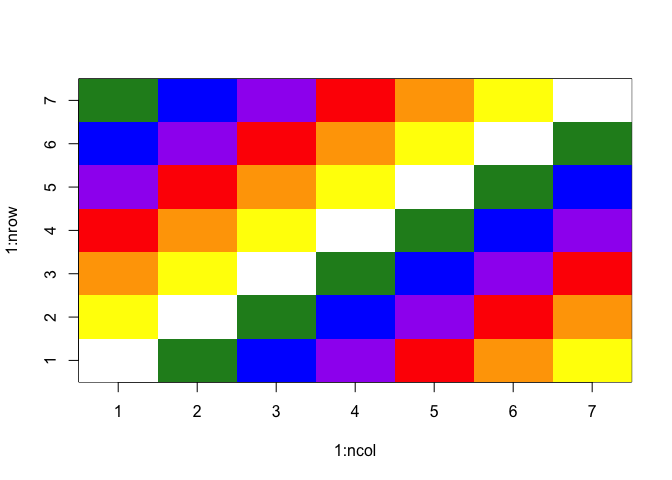
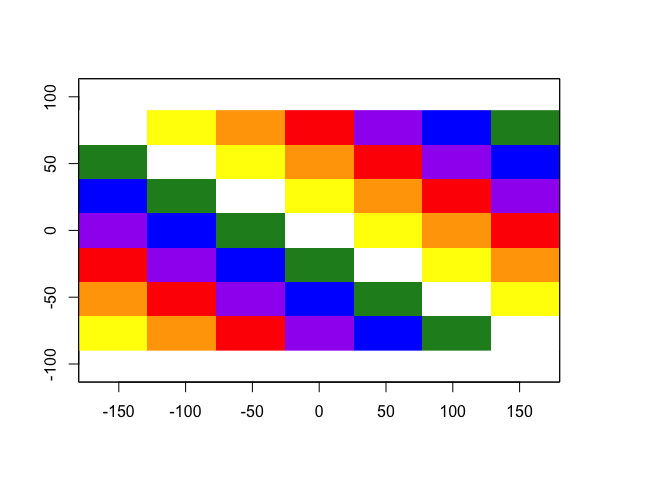
con rasters resolvemos el orden del plot y las dimensiones

diff --git a/README.md b/README.md
@@ -34,12 +34,26 @@ whipala()
 
 <img src="man/figures/README-example-1.png" width="100%" />
 
-    #> NULL
+    #> class      : RasterLayer 
+    #> dimensions : 7, 7, 49  (nrow, ncol, ncell)
+    #> resolution : 51.42857, 25.71429  (x, y)
+    #> extent     : -180, 180, -90, 90  (xmin, xmax, ymin, ymax)
+    #> crs        : +proj=longlat +datum=WGS84 +no_defs 
+    #> source     : memory
+    #> names      : layer 
+    #> values     : 1, 7  (min, max)
     whipala(ncol = 13)
 
 <img src="man/figures/README-example-2.png" width="100%" />
 
-    #> NULL
+    #> class      : RasterLayer 
+    #> dimensions : 13, 13, 169  (nrow, ncol, ncell)
+    #> resolution : 27.69231, 13.84615  (x, y)
+    #> extent     : -180, 180, -90, 90  (xmin, xmax, ymin, ymax)
+    #> crs        : +proj=longlat +datum=WGS84 +no_defs 
+    #> source     : memory
+    #> names      : layer 
+    #> values     : 1, 7  (min, max)
 
 La Whipala es propiedad de la nación originaria, es decir de los
 Qhishwa-Aymaras, Guaraníes y de todo el pueblo
@@ -50,8 +64,8 @@ Qhishwa-Aymaras, Guaraníes y de todo el pueblo
   - [ ] Mejorar el purple
   - [ ] Transformar colores a hex codes para transformar en paleta
     (whipalette :P)
-  - [ ] Reorganizar la matriz para plotar en el orden correcto, o
+  - [x] Reorganizar la matriz para plotar en el orden correcto, o
     cambiar la manera de plotar.
-  - [ ] Crear rasters em vez de grids
+  - [x] Crear rasters em vez de grids
   - [ ] Crear mapas con la whipala \#goals
   - [ ] Crear el logo del paquete
